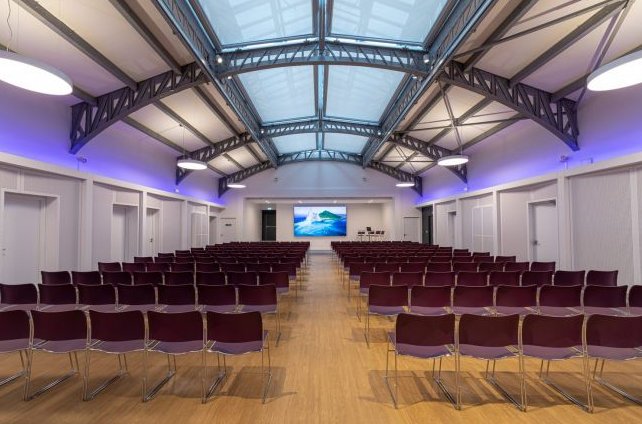
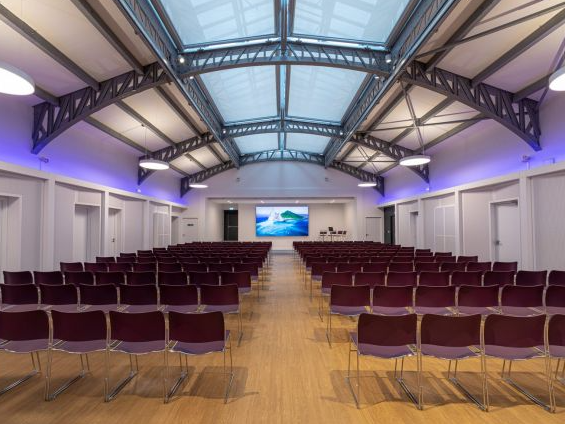
Practical info

diff --git a/pages/fr/2023/index.html b/pages/fr/2023/index.html
@@ -81,6 +81,41 @@ permalink: /2023/
 
 {% include banners/banner-alex-harmuth-cafe-unsplash.html locale=page.locale %}
 
+<section class="section" id="location">
+  <div class="wrapper">
+    <h2 class="text-center">Le lieu de l’événement</h2>
+    <p>
+       Rendez-vous à l'Espace Saint-Martin, en plein <strong></strong>centre de Paris</strong>.
+    </p>
+    <div class="grid-3">
+      <figure role="group" aria-labelledby="fig1">
+        <a href="/assets/images/2023/location/1.png" target="_blank">{% cloudinary /assets/images/2023/location/1.png alt="Une salle de conférence prise en photo depuis l'arrière. Plusieurs centaines de chaises en plastique mauve font face à un grand écran." %}</a>
+        <figcaption id="fig1" class="text-xs text-center">
+          La sous-verrière à l’architecture atypique de la salle Philae.
+        </figcaption>
+      </figure>
+      <figure role="group" aria-labelledby="fig1">
+        <a href="/assets/images/2023/location/2.png" target="_blank">{% cloudinary /assets/images/2023/location/2.png alt="Un spacieux espace de réception blanc et brillant." %}</a>
+        <figcaption id="fig1" class="text-xs text-center">
+          La galerie est espace très clair, idéal pour les réceptions.
+        </figcaption>
+      </figure>
+      <figure role="group" aria-labelledby="fig1">
+        <a href="/assets/images/2023/location/3.png" target="_blank">{% cloudinary /assets/images/2023/location/3.png alt="Un auditorium d'environ 300 fauteils, pris en photo depuis son arrière gauche. On y devine un écran géant surplombant un large espace scénique." %}</a>
+        <figcaption id="fig1" class="text-xs text-center">
+          Le grand auditorium et son large espace scénique.
+        </figcaption>
+      </figure>
+    </div>
+    <p class="text-center">
+      <a class="button" data-text="Informations Pratiques" target="_blank" href="{{ page.baseurl | default:site.baseurl }}/2023/{{ "infos-pratiques" | t: page.locale }}/"><span class="button-inner">Informations Pratiques</span></a>
+    </p>
+  </div>
+</section>
+
+
+{% include banners/banner-alex-harmuth-cafe-unsplash.html locale=page.locale %}
+
 <section class="section" id="conferences">
   <div class="wrapper">
     <h2 class="text-center">Ils nous ont soutenus !</h2>

diff --git a/pages/en/2023/index.html b/pages/en/2023/index.html
@@ -79,6 +79,40 @@ permalink: /en/2023/
 
 {% include banners/banner-alex-harmuth-cafe-unsplash.html locale=page.locale %}
 
+<section class="section" id="location">
+  <div class="wrapper">
+    <h2 class="text-center">The venue</h2>
+    <p>
+      See you at the Espace Saint-Martin, in the <strong></strong>center of Paris</strong>.
+    </p>
+    <div class="grid-3">
+      <figure role="group" aria-labelledby="fig1">
+        <a href="/assets/images/2023/location/1.png" target="_blank">{% cloudinary /assets/images/2023/location/1.png alt="A conference room pictured from the back. Several hundred purple plastic chairs face a large screen." %}</a>
+        <figcaption id="fig1" class="text-xs text-center">
+          The atypical architecture of the covert of the Philae room.
+        </figcaption>
+      </figure>
+      <figure role="group" aria-labelledby="fig1">
+        <a href="/assets/images/2023/location/2.png" target="_blank">{% cloudinary /assets/images/2023/location/2.png alt="A spacious, bright white reception area." %}</a>
+        <figcaption id="fig1" class="text-xs text-center">
+          The gallery is a very bright space, ideal for receptions.
+        </figcaption>
+      </figure>
+      <figure role="group" aria-labelledby="fig1">
+        <a href="/assets/images/2023/location/3.png" target="_blank">{% cloudinary /assets/images/2023/location/3.png alt="An auditorium with about 300 seats, photographed from the back left. We can guess a giant screen overhanging a large scenic space." %}</a>
+        <figcaption id="fig1" class="text-xs text-center">
+          The Auditorium and its wide stage area.
+        </figcaption>
+      </figure>
+    </div>
+    <p class="text-center">
+      <a class="button" data-text="Learn more about the venue" target="_blank" href="{{ page.baseurl | default:site.baseurl }}/2023/{{ "infos-pratiques" | t: page.locale }}/"><span class="button-inner">Learn more about the venue</span></a>
+    </p>
+  </div>
+</section>
+
+{% include banners/banner-alex-harmuth-cafe-unsplash.html locale=page.locale %}
+
 <section class="section" id="conferences">
   <div class="wrapper">
     <h2 class="text-center">They supported us!</h2>

diff --git a/pages/fr/2023/infos-pratiques.md b/pages/fr/2023/infos-pratiques.md
@@ -1,0 +1,33 @@
+---
+title: Infos pratiques
+description: "Toutes les infos à propos de l'événement"
+i18n-key: informations
+permalink: /2023/infos-pratiques/
+layout: page
+---
+
+# {{ page.title }}
+
+## Quand ? <span aria-hidden>🕗</span>
+
+Une journée complète, le 10 mai 2023. L’accueil se fera avec des viennoiseries, avant de démarrer les présentations.
+
+## Où ? <span aria-hidden>🗺</span>
+
+À l'Espace Saint-Martin, un espace de conférence en plein cœur de Paris.
+
+<address>
+  Espace Saint-Martin<br>
+  199 bis, rue Saint-Martin<br>
+  75003 Paris
+</address>
+
+{% include google-map.html embed_url="https://www.google.com/maps/embed?pb=!1m18!1m12!1m3!1d2624.7302475062634!2d2.3502335155496312!3d48.86335407928791!2m3!1f0!2f0!3f0!3m2!1i1024!2i768!4f13.1!3m3!1m2!1s0x47e66e1c2824899f%3A0xf34018feef603ba1!2sEspace%20Saint-Martin!5e0!3m2!1sfr!2sfr!4v1673360445523!5m2!1sfr!2sfr" link="https://goo.gl/maps/T7HabeG5wwHz9FeR6" %}
+
+## Accessibilité <span aria-hidden>♿</span>
+
+L'Espace Saint-Martin est entièrement accessible aux personnes à mobilité réduite.
+
+Vous pouvez consulter ici [le registre d'accessibilité](https://www.espacesaintmartin.com/images/contenus_pages/Fiches%20synthese%20R-V_registre.pdf).
+
+Vous pouvez consulter ici [l'attestation d'accessibilité aux personnes handicapées](https://www.espacesaintmartin.com/images/contenus_pages/ATTHAND.pdf).

diff --git a/pages/en/2023/informations.md b/pages/en/2023/informations.md
@@ -1,0 +1,34 @@
+---
+title: Informations
+description: "Practical informations regarding the event"
+i18n-key: informations
+permalink: /en/2023/informations/
+layout: page
+---
+
+# {{ page.title }}
+
+## When <span aria-hidden>🕗</span>
+
+A full day, May 10, 2023. The welcome will be with pastries, before starting the presentations.
+
+
+## Where <span aria-hidden>🗺</span>
+
+At the Espace Saint-Martin, a conference space in the heart of Paris.
+
+<address>
+  Espace Saint-Martin<br>
+  199 bis, rue Saint-Martin<br>
+  75003 Paris
+</address>
+
+{% include google-map.html embed_url="https://www.google.com/maps/embed?pb=!1m18!1m12!1m3!1d2624.7302475062634!2d2.3502335155496312!3d48.86335407928791!2m3!1f0!2f0!3f0!3m2!1i1024!2i768!4f13.1!3m3!1m2!1s0x47e66e1c2824899f%3A0xf34018feef603ba1!2sEspace%20Saint-Martin!5e0!3m2!1sfr!2sfr!4v1673360445523!5m2!1sfr!2sfr" link="https://goo.gl/maps/T7HabeG5wwHz9FeR6" %}
+
+## Accessibility <span aria-hidden>♿</span>
+
+The Espace Saint-Martin is fully accessible to people with reduced mobility.
+
+You can consult the [accessibility register here (French)](https://www.espacesaintmartin.com/images/contenus_pages/Fiches%20synthese%20R-V_registre.pdf).
+
+You can consult here the [certificate of accessibility for disabled people (French)](https://www.espacesaintmartin.com/images/contenus_pages/ATTHAND.pdf).
